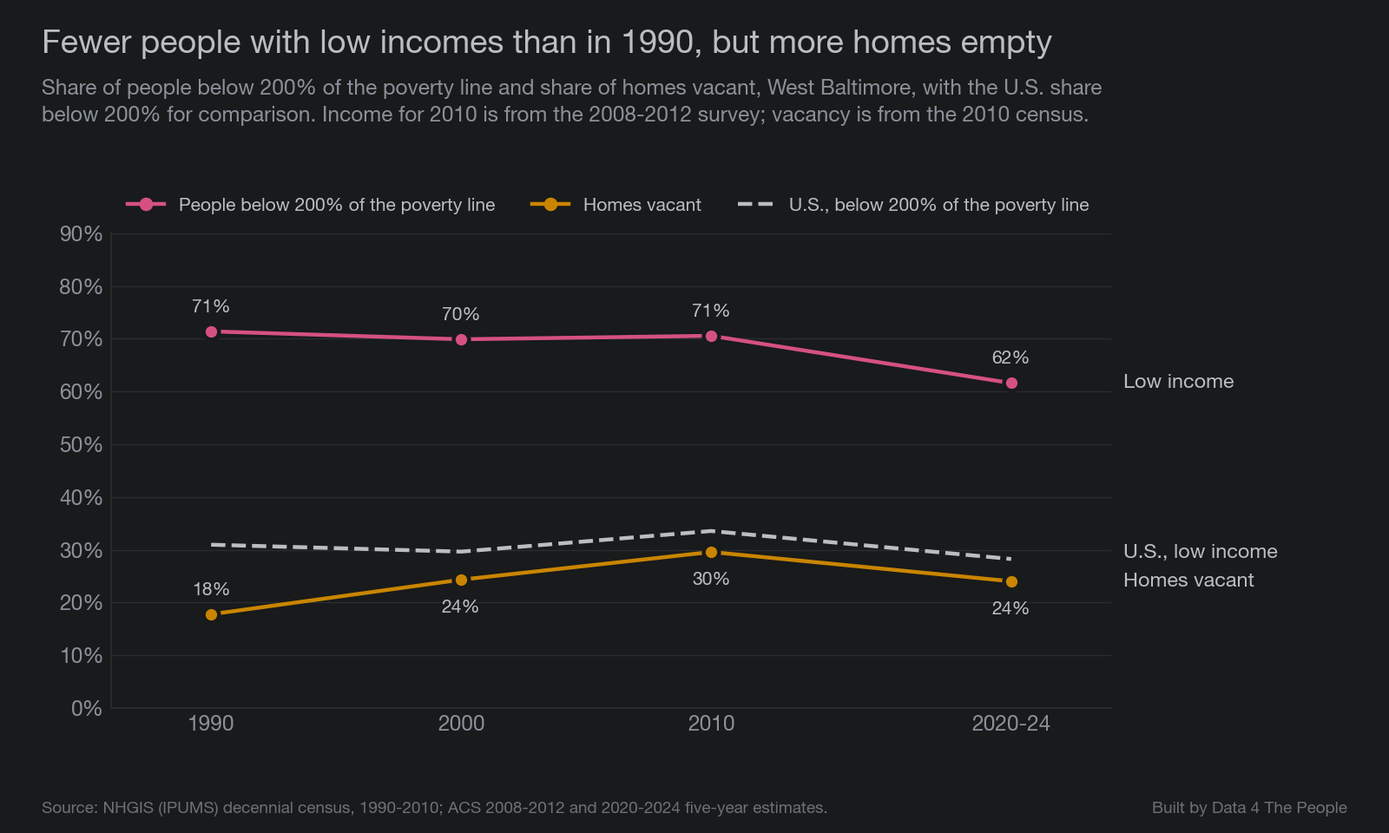
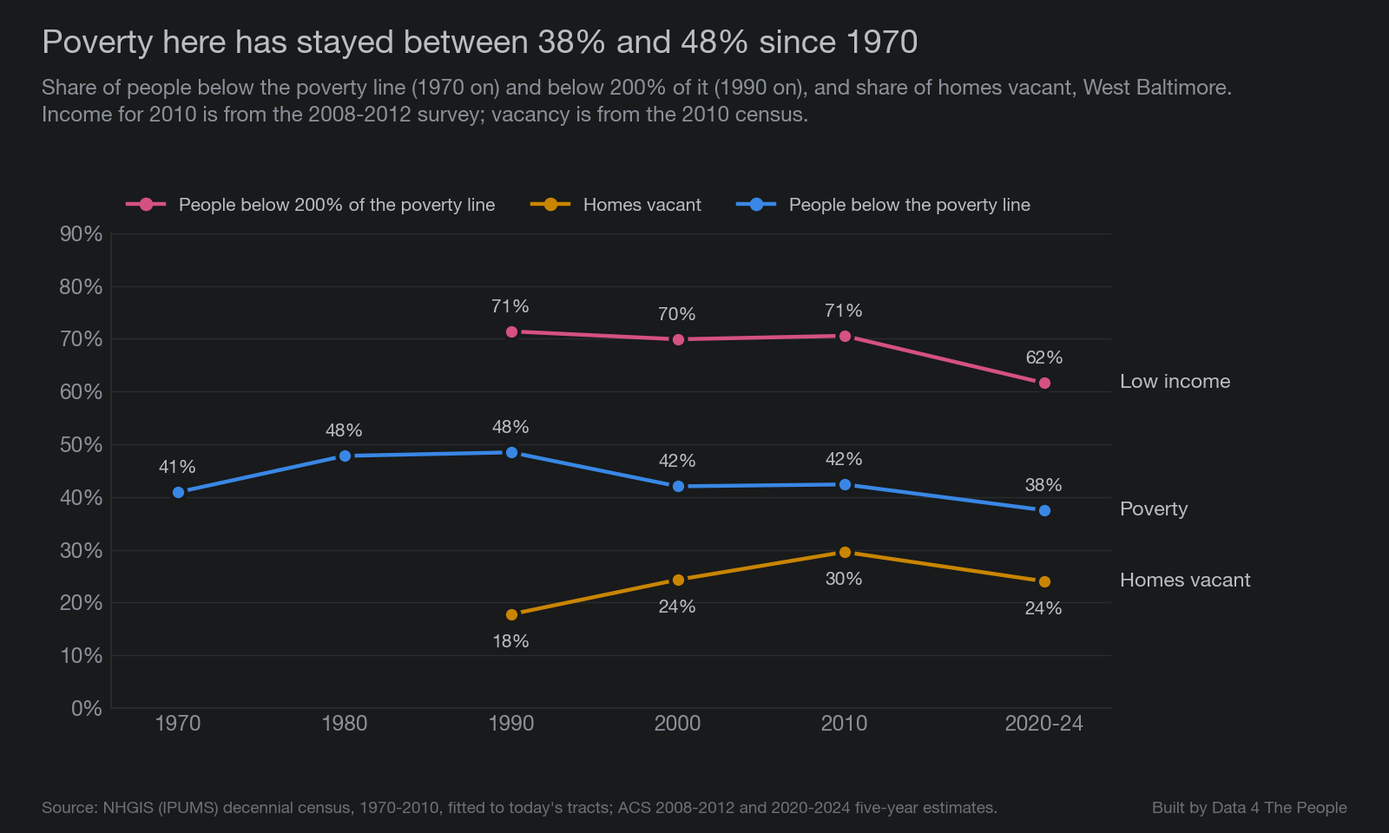
spotlight-west-baltimore: source audit fixes, loan explanation, poverty line on chart 03, transport chart ready, publish 11/24

diff --git a/scripts/93_transport_chart.py b/scripts/93_transport_chart.py
@@ -1,7 +1,8 @@
 """Chart for the West Dayton post: no vehicle, no reliable transportation and food insecurity, West Dayton vs. comparison.
 Reads analysis/spotlight/transport_westdayton.csv (scripts/92_transport_westdayton.py).
 Comparison: U.S. for households with no vehicle (ACS); all PLACES tracts in the 40 states with these measures for the two CDC measures.
-Output: posts/spotlight-west-dayton/images/05a-transport.png
+Run: python scripts/93_transport_chart.py [U047|U039]  (default U047)
+Output: posts/<slug>/images/05a-transport.png
 """
 import sys
 from pathlib import Path
@@ -13,11 +14,13 @@ from plot_style import use_house_style, titleblock, credit, INK, INK_DIM, GRID, 
 
 use_house_style()
 ROOT = Path(__file__).resolve().parents[1]
-d = pd.read_csv(ROOT / "analysis/spotlight/transport_westdayton.csv")
+AREAS = {"U047": ("West Dayton", "westdayton", "spotlight-west-dayton", "six"), "U039": ("West Baltimore", "westbaltimore", "spotlight-west-baltimore", "nine")}
+NAME, OUTN, SLUG, NT = AREAS[sys.argv[1] if len(sys.argv) > 1 else "U047"]
+d = pd.read_csv(ROOT / f"analysis/spotlight/transport_{OUTN}.csv")
 g = lambda a, m: float(d[(d.area == a) & (d.measure == m)].value.iloc[0])
-M = [("Households with\nno vehicle", g("West Dayton", "households_no_vehicle_pct"), g("United States", "households_no_vehicle_pct")),
-     ("Adults without reliable\ntransportation in the past year", g("West Dayton", "LACKTRPT"), g("PLACES tracts (40 states)", "LACKTRPT")),
-     ("Adults who were food\ninsecure in the past year", g("West Dayton", "FOODINSECU"), g("PLACES tracts (40 states)", "FOODINSECU"))]
+M = [("Households with\nno vehicle", g(NAME, "households_no_vehicle_pct"), g("United States", "households_no_vehicle_pct")),
+     ("Adults without reliable\ntransportation in the past year", g(NAME, "LACKTRPT"), g("PLACES tracts (40 states)", "LACKTRPT")),
+     ("Adults who were food\ninsecure in the past year", g(NAME, "FOODINSECU"), g("PLACES tracts (40 states)", "FOODINSECU"))]
 fig, ax = plt.subplots(figsize=(10, 6.2)); fig.subplots_adjust(left=0.08, right=0.97, top=0.74, bottom=0.17)
 x = np.arange(len(M)); w = 0.34
 for i, (lab, here, cmp_) in enumerate(M):
@@ -25,12 +28,12 @@ for i, (lab, here, cmp_) in enumerate(M):
         ax.bar(i + dx, v, w, color=col, edgecolor=SURFACE, linewidth=2)
         ax.annotate(f"{v:.0f}%", (i + dx, v), xytext=(0, 6), textcoords="offset points", ha="center", color=INK, fontsize=11)
 ax.set_xticks(x); ax.set_xticklabels([m[0] for m in M], color=INK, fontsize=10.5)
-ax.set_ylim(0, 60); ax.yaxis.set_major_formatter(plt.FuncFormatter(lambda v, _: f"{v:.0f}%"))
+ax.set_ylim(0, max(60, 10 * np.ceil((max(max(m[1], m[2]) for m in M) + 8) / 10))); ax.yaxis.set_major_formatter(plt.FuncFormatter(lambda v, _: f"{v:.0f}%"))
 ax.grid(axis="y", color=GRID, linewidth=0.6); ax.set_axisbelow(True); ax.tick_params(length=0)
 for s in ("left", "bottom"): ax.spines[s].set_color(GRID)
-ax.legend(handles=[Patch(fc=BLUE, label="West Dayton (six tracts)"), Patch(fc=INK_DIM, label="Nationwide")],
+ax.legend(handles=[Patch(fc=BLUE, label=f"{NAME} ({NT} tracts)"), Patch(fc=INK_DIM, label="Nationwide")],
           loc="upper left", frameon=False, labelcolor=INK, fontsize=10, ncol=2, bbox_to_anchor=(0, 1.1))
 titleblock(fig, "Fewer cars, less reliable transportation and more food insecurity",
-           "Share of households with no vehicle (2020-2024) and share of adults without reliable transportation or food\nat some point in the past year (2023), West Dayton and nationwide.")
+           f"Share of households with no vehicle (2020-2024) and share of adults without reliable transportation or food\nat some point in the past year (2023), {NAME} and nationwide.")
 credit(fig, "Sources: U.S. Census Bureau, American Community Survey 2020-2024 (vehicles; U.S.); CDC PLACES 2025 release, model estimates\n(transportation and food; nationwide here means tracts in the 40 states with these measures, weighted by population).")
-fig.savefig(ROOT / "posts/spotlight-west-dayton/images/05a-transport.png"); plt.close(fig)
+fig.savefig(ROOT / f"posts/{SLUG}/images/05a-transport.png"); plt.close(fig)

diff --git a/scripts/92_transport_westdayton.py b/scripts/92_transport_westdayton.py
@@ -5,7 +5,8 @@ summed across the six tracts; Montgomery County and U.S. for comparison.
 CDC PLACES 2025 release (data.cdc.gov cwsq-ngmh), 2023 survey year: LACKTRPT (lack of reliable transportation in the past
 12 months) and FOODINSECU (food insecurity in the past 12 months), crude prevalence for adults, averaged across the six
 tracts weighted by tract population; comparison is all PLACES tracts with the measure (40 states), weighted by tract population.
-Output: analysis/spotlight/transport_westdayton.csv
+Run: python scripts/92_transport_westdayton.py [U047|U039]  (default U047, West Dayton; U039 is West Baltimore)
+Output: analysis/spotlight/transport_<area>.csv
 """
 import sys
 from pathlib import Path
@@ -14,7 +15,10 @@ sys.path.insert(0, str(Path.home() / ".claude/d4tp-process"))
 from d4tp_env import read_env_file
 ROOT = Path(__file__).resolve().parents[1]
 KEY = read_env_file(Path.home() / ".claude/d4tp-process/.env")["CENSUS_API_KEY"]
-T = ["165100", "003800", "003900", "004100", "000200", "070300"]
+AREAS = {"U047": dict(name="West Dayton", st="39", co="113", county="Montgomery County", out="westdayton"),
+         "U039": dict(name="West Baltimore", st="24", co="510", county="Baltimore city", out="westbaltimore")}
+A = AREAS[sys.argv[1] if len(sys.argv) > 1 else "U047"]
+T = [t[5:] for t in pd.read_csv(ROOT / "analysis/spotlight/final_sets.csv", dtype={"tracts": str}).set_index("cand_id").loc[[k for k, v in AREAS.items() if v is A][0]].tracts.split(";")]
 V = ["B25044_001E", "B25044_003E", "B25044_010E"]
 U = "https://api.census.gov/data/2024/acs/acs5"
 
@@ -27,21 +31,21 @@ def acs(geo, within=None):
 
 
 rows = []
-t = acs("tract:*", "state:39 county:113"); t = t[t.tract.isin(T)]
-for name, d in (("West Dayton", t), ("Montgomery County", acs("county:113", "state:39")), ("United States", acs("us:1"))):
+t = acs("tract:*", f"state:{A['st']} county:{A['co']}"); t = t[t.tract.isin(T)]
+for name, d in ((A["name"], t), (A["county"], acs(f"county:{A['co']}", f"state:{A['st']}")), ("United States", acs("us:1"))):
     nv, tot = (d.B25044_003E + d.B25044_010E).sum(), d.B25044_001E.sum()
     rows.append(dict(area=name, measure="households_no_vehicle_pct", value=round(100 * nv / tot, 1), n=int(nv), total=int(tot)))
 
 q = requests.get("https://data.cdc.gov/resource/cwsq-ngmh.json",
-                 params={"$where": "countyfips='39113' and measureid in('LACKTRPT','FOODINSECU')", "$limit": 5000}, timeout=120).json()
+                 params={"$where": f"countyfips='{A['st']}{A['co']}' and measureid in('LACKTRPT','FOODINSECU')", "$limit": 5000}, timeout=120).json()
 p = pd.DataFrame(q); p = p[p.locationname.str[-6:].isin(T)]
 p["v"] = p.data_value.astype(float); p["pop"] = p.totalpopulation.astype(float)
 for m, g in p.groupby("measureid"):
-    rows.append(dict(area="West Dayton", measure=m, value=round((g.v * g["pop"]).sum() / g["pop"].sum(), 1), n=len(g), total=None, year=g.year.iloc[0]))
+    rows.append(dict(area=A["name"], measure=m, value=round((g.v * g["pop"]).sum() / g["pop"].sum(), 1), n=len(g), total=None, year=g.year.iloc[0]))
     for r in g.itertuples(): rows.append(dict(area="tract " + r.locationname[-6:], measure=m, value=r.v, year=r.year))
 for m in ("LACKTRPT", "FOODINSECU"):  # tracts in the 40 states PLACES covers for these measures, weighted by tract population
     a = requests.get("https://data.cdc.gov/resource/cwsq-ngmh.json", params={"$select": "sum(data_value*totalpopulation) as s, sum(totalpopulation) as p, count(*) as n",
                      "$where": f"measureid='{m}' and data_value_type='Crude prevalence'"}, timeout=120).json()[0]
     rows.append(dict(area="PLACES tracts (40 states)", measure=m, value=round(float(a["s"]) / float(a["p"]), 1), n=int(a["n"]), year="2023"))
-out = pd.DataFrame(rows); out.to_csv(ROOT / "analysis/spotlight/transport_westdayton.csv", index=False)
+out = pd.DataFrame(rows); out.to_csv(ROOT / f"analysis/spotlight/transport_{A['out']}.csv", index=False)
 print(out.to_string(index=False))

diff --git a/scripts/81_spotlight_charts.py b/scripts/81_spotlight_charts.py
@@ -30,7 +30,7 @@ CFG = {
                  city="Dayton", state="OH", holc_year="1937", labels=[("Downtown", 39.7589, -84.1916)]),
     "U034": dict(health4="COPD", slug="spotlight-north-birmingham", name="North Birmingham", county="01073", county_name="Jefferson County",
                  city="Birmingham", state="AL", holc_year="1930s", labels=[("Downtown", 33.5186, -86.8104)]),
-    "U039": dict(slug="spotlight-west-baltimore", name="West Baltimore", county="24510", county_name="Baltimore", extra_roads=["US Hwy 40"],
+    "U039": dict(pov_line=True, pov_title="Poverty here has stayed between 38% and 48% since 1970", slug="spotlight-west-baltimore", name="West Baltimore", county="24510", county_name="Baltimore", extra_roads=["US Hwy 40"],
                  city="Baltimore", state="MD", holc_year="1937", labels=[("Downtown", 39.2904, -76.6122)]),
     "U028": dict(health4="DIABETES", slug="spotlight-el-segundo-barrio", name="El Segundo Barrio and Chamizal", county="48141", county_name="El Paso County",
                  city="El Paso", state="TX", holc_year="1936", labels=[("Downtown", 31.7587, -106.4869)]),
@@ -225,7 +225,7 @@ def build(cid):
          "Fewer people with low incomes than in 1990, but more homes empty" if l0 - l1 >= 5 and v1 - v0 >= 3 else
          "Most people here have low incomes, and more homes are empty" if v1 - v0 >= 3 else
          "Most people here have low incomes")
-    if PL: t = "Poverty here more than doubled since 1970, and more homes are empty"
+    if PL: t = C.get("pov_title", "Poverty here more than doubled since 1970, and more homes are empty")
     sub = (f"Share of people below the poverty line (1970 on) and below 200% of it (1990 on), and share of homes vacant, {C['name']}.\nIncome for 2010 is from the 2008-2012 survey; vacancy is from the 2010 census." if PL else
            f"Share of people below 200% of the poverty line and share of homes vacant, {C['name']}, with the U.S. share\nbelow 200% for comparison. Income for 2010 is from the 2008-2012 survey; vacancy is from the 2010 census.")
     titleblock(fig, t, sub)

diff --git a/posts/spotlight-west-baltimore/POST.md b/posts/spotlight-west-baltimore/POST.md
@@ -3,8 +3,8 @@ title: "West Baltimore: A Segregation Law, a Loan Map, a Highway to Nowhere"
 prismic_label: "West Baltimore: A Segregation Law, a Loan Map, a Highway to Nowhere"
 subtitle: How Sandtown-Winchester, Harlem Park, Upton and their neighbors were shaped by a century of written rules, from a 1910 segregation ordinance to public housing placement, a half-built expressway and a federal court ruling.
 slug: spotlight-west-baltimore
-date:
-time:
+date: 2026-11-24
+time: 09:30:00-05:00
 section: Stories of a Forgotten American Community
 series: Stories of a Forgotten American Community
 hero: images/spotlight-west-baltimore-hero-1680x1080.png
@@ -48,13 +48,17 @@ Much of West Baltimore's history is written down in laws, maps and court finding
 
 ::: spacer 5px
 
-In 1910, Baltimore became "the first city in America to pass an ordinance establishing block-by-block segregation," according to the U.S. Department of Justice ([DOJ, 2016, p. 12](https://www.justice.gov/crt/file/883296/download)). In 1917, the Supreme Court struck down a similar law in Louisville, Ky. ([Buchanan v. Warley, 1917](https://www.law.cornell.edu/supremecourt/text/245/60)). The DOJ found that the ruling's "effect in Baltimore was minimal," because segregation went on through other means ([DOJ, 2016, p. 72](https://www.justice.gov/crt/file/883296/download)).
+In 1910, Baltimore became "the first city in America to pass an ordinance establishing block-by-block segregation," according to the U.S. Department of Justice ([DOJ, 2016, p. 12](https://www.justice.gov/crt/file/883296/download)). In 1917, the Supreme Court struck down a similar law in Louisville, Ky. ([Buchanan v. Warley, 1917](https://www.law.cornell.edu/supremecourt/text/245/60)). The DOJ found that the ruling's "effect in Baltimore was minimal," because segregation went on through other means ([DOJ, 2016, p. 71](https://www.justice.gov/crt/file/883296/download)).
 
 ## The 1937 map
 
 ::: spacer 5px
 
-On May 1, 1937, federal officials issued Baltimore's Residential Security Map. A federal court later quoted it: D areas were "characterized by detrimental influences ... undesirable population or an infiltration of it" ([Thompson v. HUD, 2005](https://hallapproved.com/md/cases/federal/district/2005/2306838/)). Most of the land in our tracts was graded D. One tract, in Harlem Park, was graded C ([Mapping Inequality, University of Richmond](https://dsl.richmond.edu/panorama/redlining/)).
+On May 1, 1937, the federal Home Owners' Loan Corporation issued Baltimore's Residential Security Map, which graded neighborhoods for mortgage risk ([Thompson v. HUD, 2005](https://www.courtlistener.com/opinion/2306838/thompson-v-united-states-dept-of-housing-urban-development/)). A federal court later quoted the officials' written explanation of the map: the lowest-graded areas, shaded red, were "characterized by detrimental influences in a pronounced degree, undesirable population or an infiltration of it" (same source). Most of the land in our tracts was graded D, the lowest grade. One tract, in Harlem Park, was graded C ([Mapping Inequality, University of Richmond](https://dsl.richmond.edu/panorama/redlining/)).
+
+This is where the word redlining comes from. Redlining means denying people loans because of where they live, even when they qualify on their own ([Federal Reserve History, 2023](https://www.federalreservehistory.org/essays/redlining)).
+
+A low grade mattered because the federal government was building the modern home loan at the same time. Before the 1930s, most home loans were short, often a dozen years or less, and a buyer might need to put down as much as 40% of the price ([Wells, Federal Reserve Bank of Richmond, 2023](https://www.richmondfed.org/publications/research/econ_focus/2023/q1_economic_history)). The new federal programs changed that. The Home Owners' Loan Corporation made the 15-year loan, paid down a little each month, standard. The Federal Housing Administration insured loans of 20 years or more, with as little as 10% down (same source). Those longer loans let many more families buy homes. But from its start in 1934, FHA staff concluded that no loan could be economically sound in a neighborhood that was or could become home to Black people ([Federal Reserve History, 2023](https://www.federalreservehistory.org/essays/redlining)).
 
 The map below shows the 1937 grades with the nine tracts in this story outlined.
 
@@ -67,7 +71,7 @@ The City of Baltimore draws the line forward itself. In a 2024 federal grant app
 
 ::: spacer 5px
 
-Between 1937 and 1943, the Housing Authority of Baltimore City built eight low-rent housing projects segregated by law. Five were for Black residents and were placed in existing Black neighborhoods. One of them was Gilmor Homes, in Sandtown ([Thompson v. HUD, 2005](https://hallapproved.com/md/cases/federal/district/2005/2306838/)). The City Council approved the site for the Murphy Homes high-rises in 1952 ([Thompson v. HUD, 2005](https://hallapproved.com/md/cases/federal/district/2005/2306838/)). In October 1965, the city's first plan for scattered-site public housing put 100 units in the Harlem Park urban renewal area. All the families moved out to make room for it were Black ([Thompson v. HUD, 2005](https://hallapproved.com/md/cases/federal/district/2005/2306838/)).
+Between 1937 and 1943, the Housing Authority of Baltimore City built eight low-rent housing projects segregated by law. Five were for Black residents and were placed in existing Black neighborhoods. One of them was Gilmor Homes, in Sandtown ([Thompson v. HUD, 2005](https://www.courtlistener.com/opinion/2306838/thompson-v-united-states-dept-of-housing-urban-development/)). The City Council approved the site for the Murphy Homes high-rises in 1952 ([Thompson v. HUD, 2005](https://www.courtlistener.com/opinion/2306838/thompson-v-united-states-dept-of-housing-urban-development/)). In October 1965, the city's first plan for scattered-site public housing put 100 units in the Harlem Park urban renewal area. All the families moved out to make room for it were Black ([Thompson v. HUD, 2005](https://www.courtlistener.com/opinion/2306838/thompson-v-united-states-dept-of-housing-urban-development/)).
 
 ## 1968
 
@@ -79,7 +83,7 @@ After the assassination of Dr. Martin Luther King Jr., looting began on April 6,
 
 ::: spacer 5px
 
-In 1966, the city began taking property for the Franklin-Mulberry expressway. The city says 971 homes, 62 businesses, one school and 20 city blocks were torn down, and about 1,500 people were moved out ([City of Baltimore, 2024, pp. 2 to 3](https://www.mdot.maryland.gov/OPCP/Narrative_2024_West_Baltimore_United_Phase_1_RCP_Construction.pdf)). Baltimore Magazine puts the number moved out at more than 2,800. The road opened on Feb. 5, 1979, but it was never connected to I-70. Many people call it the "Highway to Nowhere" ([Baltimore Magazine, 2023](https://www.baltimoremagazine.com/section/businessdevelopment/highway-to-nowhere-baltimore-expressway-demolished-black-neighborhoods/)). The city says West Baltimore communities "have continued to face blight and disinvestment in the decades since" ([City of Baltimore, 2024, p. 3](https://www.mdot.maryland.gov/OPCP/Narrative_2024_West_Baltimore_United_Phase_1_RCP_Construction.pdf)).
+In 1966, the city began condemning property for the Franklin-Mulberry expressway ([Baltimore Magazine, 2023](https://www.baltimoremagazine.com/section/businessdevelopment/highway-to-nowhere-baltimore-expressway-demolished-black-neighborhoods/)). The city says 971 homes, 62 businesses, one school and 20 city blocks were torn down, and about 1,500 people were moved out ([City of Baltimore, 2024, p. 2](https://www.mdot.maryland.gov/OPCP/Narrative_2024_West_Baltimore_United_Phase_1_RCP_Construction.pdf)). Baltimore Magazine puts the number moved out at more than 2,800. The road opened on Feb. 5, 1979, but it was never connected to I-70. Many people call it the "Highway to Nowhere" ([Baltimore Magazine, 2023](https://www.baltimoremagazine.com/section/businessdevelopment/highway-to-nowhere-baltimore-expressway-demolished-black-neighborhoods/)). The city says West Baltimore communities "have continued to face blight and disinvestment in the decades since" ([City of Baltimore, 2024, p. 2](https://www.mdot.maryland.gov/OPCP/Narrative_2024_West_Baltimore_United_Phase_1_RCP_Construction.pdf)).
 
 The chart below counts the people living inside today's nine tract lines in each census.
 
@@ -92,34 +96,34 @@ The tracts lost about 19% of their people in the 1970s, the decade the highway w
 
 ::: spacer 5px
 
-Starting in the late 1980s, the city, the community group BUILD and the Enterprise Foundation launched a rebuilding effort in Sandtown. It raised more than $130 million through 2000, and almost 600 public housing units in Gilmor Homes were modernized. Researchers who studied it found homeownership rose from under a quarter of families to more than 40% ([The Abell Report, 2013](https://abell.org/wp-content/uploads/2022/02/arn1113.pdf); [Urban Affairs Review, 2015](https://urbanaffairsreview.blogspot.com/2015/11/authors-blog-what-happened-in-sandtown.html)). In 1997, HUD awarded a $31.3 million grant to rebuild Murphy Homes and Julian Gardens ([HUD, 1999](https://archives.hud.gov/news/1999/pr99-182.html)).
+Starting in the late 1980s, the city, the community group BUILD and the Enterprise Foundation launched a rebuilding effort in Sandtown. It raised more than $130 million through 2000, and almost 600 public housing units in Gilmor Homes were modernized ([The Abell Report, 2013](https://abell.org/wp-content/uploads/2022/02/arn1113.pdf)). Researchers who studied it found homeownership rose from under a quarter of families to more than 40% ([Urban Affairs Review, 2015](https://urbanaffairsreview.blogspot.com/2015/11/authors-blog-what-happened-in-sandtown.html)). In 1997, HUD awarded a $31.3 million grant to rebuild Murphy Homes and Julian Gardens ([HUD, 1999](https://archives.hud.gov/news/1999/pr99-182.html)).
 
-The chart below shows the share of people with low incomes, meaning below 200% of the poverty line, and the share of homes standing empty over the same decades. The low-income share held near 70% from 1990 to 2008-2012, then fell to 62% in 2020-2024. The U.S. share was 28%.
+The chart below shows the share of people in poverty since 1970, the share with low incomes, meaning below 200% of the poverty line, and the share of homes standing empty. Poverty stayed between 38% and 48% in every count. The low-income share held near 70% from 1990 to 2008-2012, then fell to 62% in 2020-2024.
 
-![Line chart of three shares for West Baltimore. People below 200% of the poverty line: 71% in 1990, 70% in 2000, 71% in 2008-2012 and 62% in 2020-2024. Homes vacant: 18% in 1990, 24% in 2000, 30% in 2010 and 24% in 2020-2024. U.S. share below 200%, dashed: 31% in 1990 and 28% in 2020-2024.](images/03-low-income-vacancy.png)
+![Line chart of three shares for West Baltimore. People below the poverty line: 41% in 1970, 48% in 1980, 48% in 1990, 42% in 2000, 42% in 2010 and 38% in 2020-2024. People below 200% of the poverty line: 71% in 1990, 70% in 2000, 71% in 2010 and 62% in 2020-2024. Homes vacant: 18% in 1990, 24% in 2000, 30% in 2010 and 24% in 2020-2024.](images/03-low-income-vacancy.png)
 *Low income here means below 200% of the federal poverty line. Income for 2010 is from the 2008-2012 survey.*
 
 ## A court finding
 
 ::: spacer 5px
 
-On Jan. 6, 2005, a federal judge ruled that HUD "failed to consider regionally-oriented desegregation and integration policies" in Baltimore. The court found that scattered-site public housing units were concentrated in a few neighborhoods: 302 in Sandtown-Winchester, 227 in Harlem Park, 173 in Franklin Square and 116 in Upton. It found that most scattered-site units "are located in high poverty Black neighborhoods" ([Thompson v. HUD, 2005](https://hallapproved.com/md/cases/federal/district/2005/2306838/)).
+On Jan. 6, 2005, a federal judge ruled that HUD "failed to consider regionally-oriented desegregation and integration policies" in Baltimore. The court found that scattered-site public housing units were concentrated in a few neighborhoods: 302 in Sandtown-Winchester, 227 in Harlem Park, 173 in Franklin Square and 116 in Upton. It found that most scattered-site units "are located in high poverty Black neighborhoods" ([Thompson v. HUD, 2005](https://www.courtlistener.com/opinion/2306838/thompson-v-united-states-dept-of-housing-urban-development/)).
 
 ## Prison, police and a death in custody
 
 ::: spacer 5px
 
-In 2015, the Justice Policy Institute and the Prison Policy Initiative reported that 458 people from the Sandtown-Winchester and Harlem Park area were in prison, more than from any other Baltimore community. That cost the state about $17 million a year. The report found the same community "also faces the most concentrated challenges related to work, education, health, and housing," but it did not claim one causes the other ([Justice Policy Institute and Prison Policy Initiative, 2015](https://static.prisonpolicy.org/origin/md/report.pdf)). Its area is a little larger than our tracts.
+In 2015, the Justice Policy Institute and the Prison Policy Initiative reported that in 2010, 458 people from the Sandtown-Winchester and Harlem Park area were in state prison, more than from any other Baltimore community. That cost the state about $17 million a year. The report found the same community "also faces the most concentrated challenges related to work, education, health, and housing," but it did not claim one causes the other ([Justice Policy Institute and Prison Policy Initiative, 2015](https://static.prisonpolicy.org/origin/md/report.pdf)). Its area is a little larger than our tracts.
 
-On April 12, 2015, Freddie Gray was injured in police custody after his arrest in Sandtown. He died a week later ([Court of Appeals of Maryland, 2016](https://cases.justia.com/maryland/court-of-appeals/2016-96-15-0.pdf); [Baltimore Brew, 2015](https://baltimorebrew.com/2015/05/01/freddie-grays-death-ruled-a-homicide-six-officers-charged/)). In 2016, the Justice Department found that Baltimore police made about 44% of their stops in two small, mostly Black police districts that hold about 11% to 12% of the city's people. It described one man who was stopped 34 times ([DOJ, 2016](https://www.justice.gov/crt/file/883296/download)). A court entered a consent decree to reform the department on April 7, 2017 ([U.S. District Court for Maryland](https://www.mdd.uscourts.gov/Baltimore-City-Consent-Decree)).
+On April 12, 2015, Freddie Gray, who lived in Sandtown-Winchester, was injured in police custody after his arrest on Presbury Street. He died a week later ([Court of Appeals of Maryland, 2016](https://cases.justia.com/maryland/court-of-appeals/2016-96-15-0.pdf); [Baltimore Brew, 2015](https://baltimorebrew.com/2015/05/01/freddie-grays-death-ruled-a-homicide-six-officers-charged/); [Urban Affairs Review, 2015](https://urbanaffairsreview.blogspot.com/2015/11/authors-blog-what-happened-in-sandtown.html)). In 2016, the Justice Department found that Baltimore police made about 44% of their stops in two small, mostly Black police districts that hold about 11% to 12% of the city's people. It described one man who was stopped 34 times in those two districts ([DOJ, 2016, pp. 6 and 26](https://www.justice.gov/crt/file/883296/download)). A court entered a consent decree to reform the department on April 7, 2017 ([U.S. District Court for Maryland](https://www.mdd.uscourts.gov/Baltimore-City-Consent-Decree)). In October 2026, the department was still under it ([Baltimore Banner, 2026](https://www.thebanner.com/community/criminal-justice/bpd-shortage-misconduct-accountability-UMZDIGXSGVBGXJRWJPY5QF6MX4/)).
 
-In June 2015, the state canceled the Red Line, a planned east-west rail line through West Baltimore that had a $900 million federal funding commitment ([Baltimore Magazine, 2015](https://www.baltimoremagazine.com/2015/6/25/hogan-says-no-to-red-line)). The state brought the project back in 2023 and chose light rail in 2024. No construction date has been set ([Maryland Transit Administration](https://redlinemaryland.com)).
+In June 2015, the state canceled the Red Line, a planned east-west rail line through West Baltimore that had a $900 million federal funding commitment ([Baltimore Magazine, 2015](https://www.baltimoremagazine.com/2015/6/25/hogan-says-no-to-red-line)). The state brought the project back in 2023 and recommended light rail in 2024 ([Maryland Transit Administration](https://redlinemaryland.com)). In April 2026, citing federal funding uncertainty, the state began weighing whether to build it in phases or switch to bus rapid transit ([Maryland Transit Administration, 2026](https://www.mta.maryland.gov/articles/538)). No construction date has been set.
 
 ## Health
 
 ::: spacer 5px
 
-The Baltimore City Health Department tracks life expectancy by neighborhood. In its 2017 profiles, covering 2011-2015, life expectancy was 70.0 years in Sandtown-Winchester and Harlem Park, 68.2 in Upton and Druid Heights, and 68.4 in Poppleton, compared with 73.6 for the city ([Baltimore City Health Department, 2017](https://www.baltimorecity.gov/media/document/nhp201747sandtown-winchester-harlemparkrev6-9-17pdf)). That is up from 65.3 in Sandtown-Winchester and Harlem Park in the 2011 profile, which covered 2005-2009 ([Baltimore City Health Department, 2011](https://s3.amazonaws.com/baltimorecity.gov.if-us-east-1/s3fs-public/2025-05/47_sandtown.pdf)). These areas are a little larger than our tracts. The DOJ also reported that 7.4% of children tested in Sandtown-Winchester and Harlem Park had high levels of lead in their blood ([DOJ, 2016](https://www.justice.gov/crt/file/883296/download)).
+The Baltimore City Health Department tracks life expectancy by neighborhood. In its 2017 profiles, covering 2011-2015, life expectancy was 70.0 years in Sandtown-Winchester and Harlem Park, 68.2 in Upton and Druid Heights, and 68.4 in Poppleton, the Terraces and Hollins Market, compared with 73.6 for the city ([Baltimore City Health Department, 2017](https://www.baltimorecity.gov/media/document/nhp201747sandtown-winchester-harlemparkrev6-9-17pdf); [Upton profile](https://www.baltimorecity.gov/media/document/nhp201753upton-druidheightsrev6-9-17pdf); [Poppleton profile](https://www.baltimorecity.gov/media/document/nhp201746poppleton-theterraces-hollinsmarketrev6-9-17pdf)). That is up from 65.3 in Sandtown-Winchester and Harlem Park in the 2011 profile, which covered 2005-2009 ([Baltimore City Health Department, 2011](https://s3.amazonaws.com/baltimorecity.gov.if-us-east-1/s3fs-public/2025-05/47_sandtown.pdf)). These areas are a little larger than our tracts. The DOJ also reported that 7.4% of children in Sandtown-Winchester and Harlem Park had elevated levels of lead in their blood, the highest share in the city ([DOJ, 2016, p. 14](https://www.justice.gov/crt/file/883296/download)).
 
 The chart below compares Baltimore's drug overdose death rate with the middle U.S. county.
 
@@ -130,7 +134,7 @@ The chart below compares Baltimore's drug overdose death rate with the middle U.
 
 ::: spacer 5px
 
-In April 2023, the city got a $2 million federal grant to plan what to do with the highway corridor ([Office of Sen. Chris Van Hollen, 2023](https://www.vanhollen.senate.gov/news/press-releases/maryland-congressional-members-mayor-scott-highlight-federal-funding-to-move-forward-with-highway-to-nowhere-redevelopment)). In 2024, it asked for $100 million more toward a $200 million first phase ([City of Baltimore, 2024, p. 1](https://www.mdot.maryland.gov/OPCP/Narrative_2024_West_Baltimore_United_Phase_1_RCP_Construction.pdf)). [Eric: we have not confirmed whether the 2024 request was funded. Worth a check before publishing.]
+In February 2023, the city got a $2 million federal grant to plan what to do with the highway corridor ([Office of Sen. Chris Van Hollen, 2025](https://www.vanhollen.senate.gov/news/press-releases/van-hollen-alsobrooks-mfume-announce-85-million-for-first-phase-of-highway-to-nowhere-redevelopment)). In 2024, it asked for $100 million more toward a $200 million first phase ([City of Baltimore, 2024, p. 1](https://www.mdot.maryland.gov/OPCP/Narrative_2024_West_Baltimore_United_Phase_1_RCP_Construction.pdf)). In January 2025, the U.S. Department of Transportation awarded about $85.5 million. The money is to build a cap over one block of the highway, tear down ramps over it and make some intersections safer ([Office of Sen. Chris Van Hollen, 2025](https://www.vanhollen.senate.gov/news/press-releases/van-hollen-alsobrooks-mfume-announce-85-million-for-first-phase-of-highway-to-nowhere-redevelopment)).
 
 ::: divider
 

diff --git a/DATASETS.md b/DATASETS.md
@@ -466,7 +466,7 @@ Each spotlight post opens with 5 economic and 5 health measures for the neighbor
 - **One health chart per post, chosen for the story.** Overdose deaths where they are part of the story (Baltimore, Flint, McDowell, Owsley). West Dayton: four tract health measures over time (below). Otherwise: county life expectancy against the state and the U.S. (Clarksdale, Pine Ridge, Clarksville; County Health Rankings 2026 supplement, v147, 2021-2023), or one CDC PLACES 2025 measure for the neighborhood, county, state and U.S., each an adult-weighted average of its tracts (Birmingham: COPD; El Paso: diabetes).
 - **Drug overdose deaths:** CDC NCHS "Drug Poisoning Mortality by County," model-based death rates, 2003-2021 (data.cdc.gov dataset rpvx-m2md). The main county of each pick is shown next to the median of all county rates each year ("the middle U.S. county"). These are county-wide.
 - **Tract health over time (West Dayton; `scripts/84_health_trend.py`, `analysis/spotlight/health_trend_U047.csv`):** crude prevalence for adults from every CDC 500 Cities release (data.cdc.gov 9z78-nsfp, vurf-k5wr, rja3-32tc, 6vp6-wxuq; survey years 2013-2017) and PLACES release (4ai3-zynv, 373s-ayzu, nw2y-v4gm, em5e-5hvn, ai6z-tcin, cwsq-ngmh; survey years 2017-2023). The six tracts' values are averaged, weighted by total population. Their 2010 and 2020 lines are the same. Where two releases share a survey year, the later release is kept. U.S.: the 500 Cities U.S. row (BRFSS direct estimate) for 500 Cities releases; the population-weighted mean of all tracts, computed by the CDC API, for PLACES releases. No tract health estimates exist before the 2016 500 Cities release. CDC's PLACES FAQ says "The current modeling procedure does not support using the estimates to track changes at the local level over time" (the population used in the model is fixed at the census), so the post reads only the gap to the U.S. within each release, not the change.
-- **Then-and-now charts** use `history_final.csv` and hide years with fit under 0.8, as the tables do. Chart 03 shows the share below 200% of the poverty line (`below200.csv`, 1990 to 2020-2024, with the U.S. share as a dashed line); for West Dayton the U.S. line is dropped and the chart instead shows the poverty rate (below 100% of the line, `history_final.csv` measure poverty_rate, 1970 to 2020-2024; 1970 fit 0.85, 1980 fit 0.91, 1990 fit 0.86) and the share of homes vacant (decennial census for 1990, 2000 and 2010; ACS for 2020-2024). Its 2010 income point is the ACS 2008-2012 estimate. The key measures table keeps the poverty rate.
+- **Then-and-now charts** use `history_final.csv` and hide years with fit under 0.8, as the tables do. Chart 03 shows the share below 200% of the poverty line (`below200.csv`, 1990 to 2020-2024, with the U.S. share as a dashed line); for West Dayton and West Baltimore (config `pov_line`) the U.S. line is dropped and the chart instead shows the poverty rate (below 100% of the line, `history_final.csv` measure poverty_rate, 1970 to 2020-2024; West Dayton 1970 fit 0.85, 1980 fit 0.91, 1990 fit 0.86; West Baltimore 1970 and 1980 fit 0.92, 1990 fit 0.99) and the share of homes vacant (decennial census for 1990, 2000 and 2010; ACS for 2020-2024). Its 2010 income point is the ACS 2008-2012 estimate. The key measures table keeps the poverty rate.
 
 ### Race by HOLC grade, Dayton, 1940 (`scripts/86_fetch_nhgis_1940.py`, `scripts/87_holc_race_1940.py`, `analysis/spotlight/holc_race_dayton_1940.csv`)
 
@@ -480,9 +480,9 @@ NHGIS dataset 1940_tPH_Major (tracts in major cities): NT1 population, NT2 white
 
 Stores today: USDA FNS SNAP retailer locator live feed (ArcGIS FeatureServer `snap_retailer_location_data`), pulled 2026-11-23 for the box -84.30,39.70,-84.15,39.81 (`data/raw/snap/snap_live_westdayton.json`). Full grocery store = USDA Supermarket or Super Store, plus Homefull's Gettysburg Grocery (GG's, USDA type Grocery Store, a full-service store opened January 2025). Gem City Market is drawn on its own. Smaller grocery = other USDA Grocery Store. Convenience or dollar = USDA Convenience Store or a name containing "Dollar". Closed stores: USDA SNAP retailer historical file 2005-2025 (`data/raw/snap/`, copied from the SNAP_Locations project), Supermarket, Super Store or Large Grocery Store addresses within half a mile of the six tracts whose latest record has an end date and that are not in the live feed at the same address or under the same name and street number. Fast food: OpenStreetMap `amenity=fast_food` via the Overpass API, pulled 2026-11-23 (`data/raw/osm/fastfood_westdayton.json`); volunteer-mapped, may miss places. Low-income, low-access flags: USDA ERS Food Access Research Atlas 2019 (`data/raw/usda_fara/`), fields LowIncomeTracts, LAhalfand10, LA1and10, on 2010 tracts, which match the six 2020 tracts. Inside means within the six tracts' outline; distances in EPSG 5070.
 
-### Transportation and food insecurity, West Dayton (`scripts/92_transport_westdayton.py`, `scripts/93_transport_chart.py`, `analysis/spotlight/transport_westdayton.csv`)
+### Transportation and food insecurity, West Dayton and West Baltimore (`scripts/92_transport_westdayton.py`, `scripts/93_transport_chart.py`, `analysis/spotlight/transport_westdayton.csv`, `transport_westbaltimore.csv`)
 
-Households with no vehicle: ACS 2020-2024 5-year B25044, owner (003) plus renter (010) no-vehicle households over all occupied (001), summed across the six tracts; Montgomery County and U.S. the same way, Census API. Lack of reliable transportation (LACKTRPT) and food insecurity (FOODINSECU): CDC PLACES 2025 release (data.cdc.gov cwsq-ngmh), 2023 survey year, crude prevalence for adults, averaged across the six tracts weighted by tract population. Comparison: all PLACES tracts with these measures (60,419 tracts in 40 states), weighted by tract population, via a SoQL sum. These are BRFSS social-needs questions, asked only in some states, so the comparison is not the whole U.S. Chart 05a: West Dayton vs. U.S. (vehicles) and vs. the 40-state figure (the two CDC measures), labeled "nationwide."
+Households with no vehicle: ACS 2020-2024 5-year B25044, owner (003) plus renter (010) no-vehicle households over all occupied (001), summed across the six tracts; Montgomery County and U.S. the same way, Census API. Lack of reliable transportation (LACKTRPT) and food insecurity (FOODINSECU): CDC PLACES 2025 release (data.cdc.gov cwsq-ngmh), 2023 survey year, crude prevalence for adults, averaged across the six tracts weighted by tract population. Comparison: all PLACES tracts with these measures (60,419 tracts in 40 states), weighted by tract population, via a SoQL sum. These are BRFSS social-needs questions, asked only in some states, so the comparison is not the whole U.S. Chart 05a: West Dayton vs. U.S. (vehicles) and vs. the 40-state figure (the two CDC measures), labeled "nationwide." The scripts take an area argument (U047 West Dayton, default; U039 West Baltimore, nine tracts from final_sets.csv, Baltimore city as the county). West Baltimore's chart is at posts/spotlight-west-baltimore/images/05a-transport.png.
 
 ### Jobs held by West Dayton residents (`scripts/94_lodes_westdayton.py`, `analysis/spotlight/lodes_westdayton.csv`)
 

diff --git a/TIEOUT.md b/TIEOUT.md
@@ -210,4 +210,5 @@ Code and output: `analysis/spotlight/independent/check.py`, `results.csv` and `R
 | Dayton then and now, same land (West Dayton post, chart 01c) | land-share split vs. whole-tract assignment to the zone covering most of each tract | homeownership 1940 / now: west side D 31.0 / 38.0 vs. 30.7 / 36.0; other D 23.5 / 44.2 vs. 25.7 / 39.8; A-C 51.7 / 54.7 vs. 53.0 / 54.8. Same direction: other D areas rose more. West Dayton land: own 38.7 / 34.0 vs. rest 41.8 / 49.9; home value 73% / 58% of the rest |
 | West Dayton food access (post text and map 05) | USDA atlas flags read straight from the CSV; store counts printed by the script and checked on the map | low income 6 of 6; low access at half mile 5 of 6 (all but tract 2), at 1 mile 2 of 6 (41, 703). Inside the tracts: 0 full grocery, 2 smaller grocery, 11 convenience or dollar, 2 fast food. Kroger 900 N. Gettysburg in tract 3800, USDA end date 2008-10-15, matches WYSO 2017. Gem City 0.48 miles outside |
 | West Dayton transportation and food insecurity (post text and chart 05a) | ACS and PLACES pulled by script; tract values listed in the CSV and the weighted average recomputed by hand from them | no vehicle 21.1% (1,228 of 5,824) vs. county 8.5%, U.S. 8.4%; LACKTRPT 23.9% (tracts 21.5-26.5) vs. 9.2%; FOODINSECU 46.6% (tracts 42.1-49.8) vs. 17.2% |
+| West Baltimore transportation and food insecurity (chart 05a, proposed) | Same scripts with U039; ACS tract sums and PLACES tract rows in the CSV | no vehicle 60.2% (5,529 of 9,177) vs. Baltimore city 26.7%, U.S. 8.4%; LACKTRPT 24.5% vs. 9.2%; FOODINSECU 49.5% vs. 17.2% (9 tracts) |
 | West Dayton residents' jobs, 2002-2010 (post text, The jobs go) | LODES RAC summed by script; county shares printed as a check | jobs 7,958 to 4,549 (-42.8%); manufacturing 1,076 to 415 (-61.4%), share 13.5% to 9.1% (county 15.3% to 10.6%); population 20,459 to 16,017 (-21.7%) |

diff --git a/STATUS.md b/STATUS.md
@@ -76,3 +76,4 @@ None.
 - 2026-11-23 spotlight-west-dayton: Eric confirmed 2e (accepted SNAP map link, Ohio income-health link, Common questions). 2f: pushed to Prismic as draft awRDuBEAACcAiOhQ in the Migration Release (68 slices, 9 images, Article + FAQPage schema; tags and author empty).
 - 2026-11-23 spotlight-west-dayton: Eric confirmed 2f (draft awRDuBEAACcAiOhQ; title "Redlined in 1937: West Dayton's Long Fall"; subtitle option 3; publish 2026-11-23 9:30 a.m. ET). 2g skipped for this post by Eric: no single-post email. One email on Friday 2026-11-27 will summarize the five city spotlights (West Dayton, North Birmingham, West Baltimore, El Segundo Barrio, North and East Flint).
 - 2026-11-23 spotlight-west-dayton: Step 3 drafted: SOCIAL.md (X, Bluesky, LinkedIn + first comment) and social/poverty-since-1970.gif (scripts/95_social_gif_westdayton.py). Awaiting Eric.
+- 2026-11-23 spotlight-west-baltimore: set to publish 2026-11-24 9:30 a.m. ET (day 2). Source audit by three agents plus spot checks; fixes applied (map-quote attribution, page cites, Thompson link to CourtListener, 1966 source, rebuilding cites, 2010 prison year, Freddie Gray wording, lead wording, health profile links, $2M date, $85.5M award, Red Line 2026, consent decree 2026). Loan explanation added. Chart 03 with poverty line from 1970. Proposed for Eric: food section with chart 05a. Hero candidate: Famartin 2019 US 40 trench from Fulton Ave (CC BY-SA 4.0). Eric reads line by line 2026-11-24 morning.
